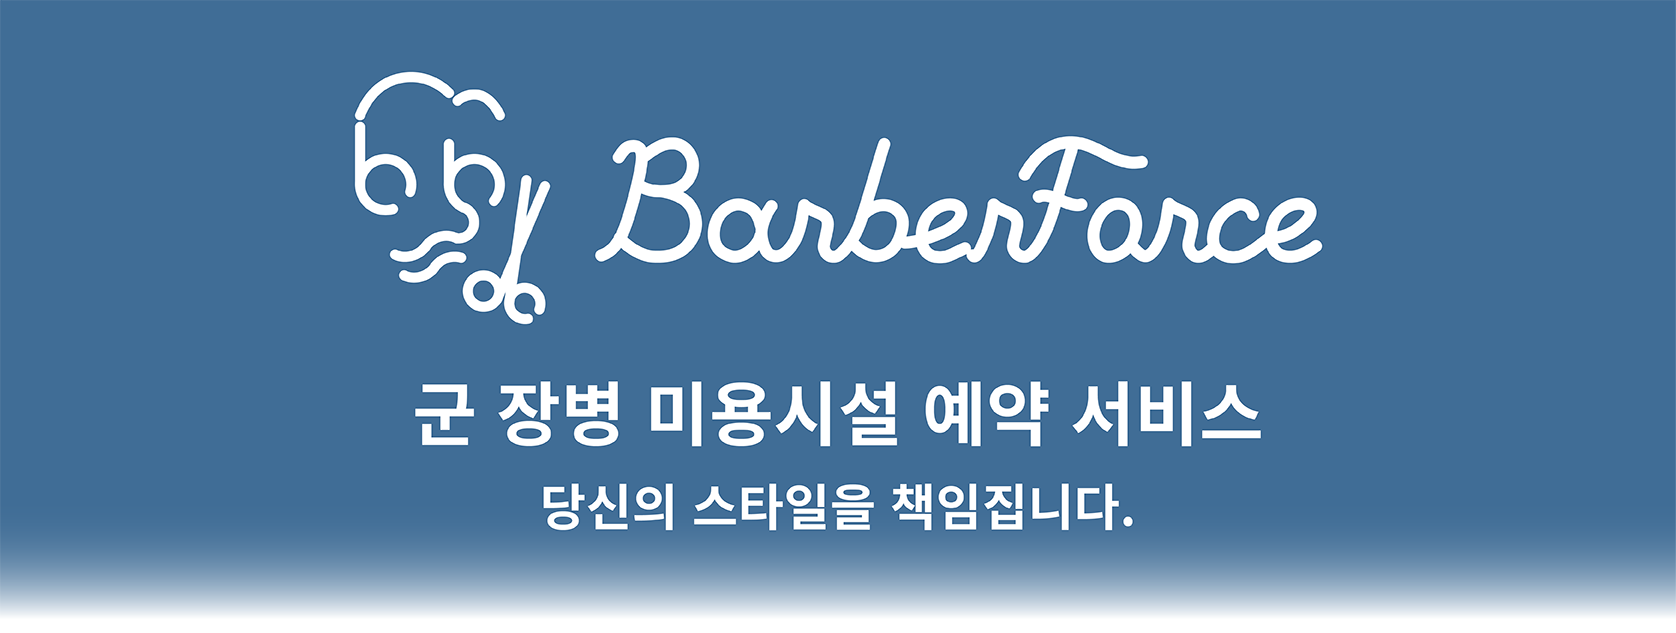
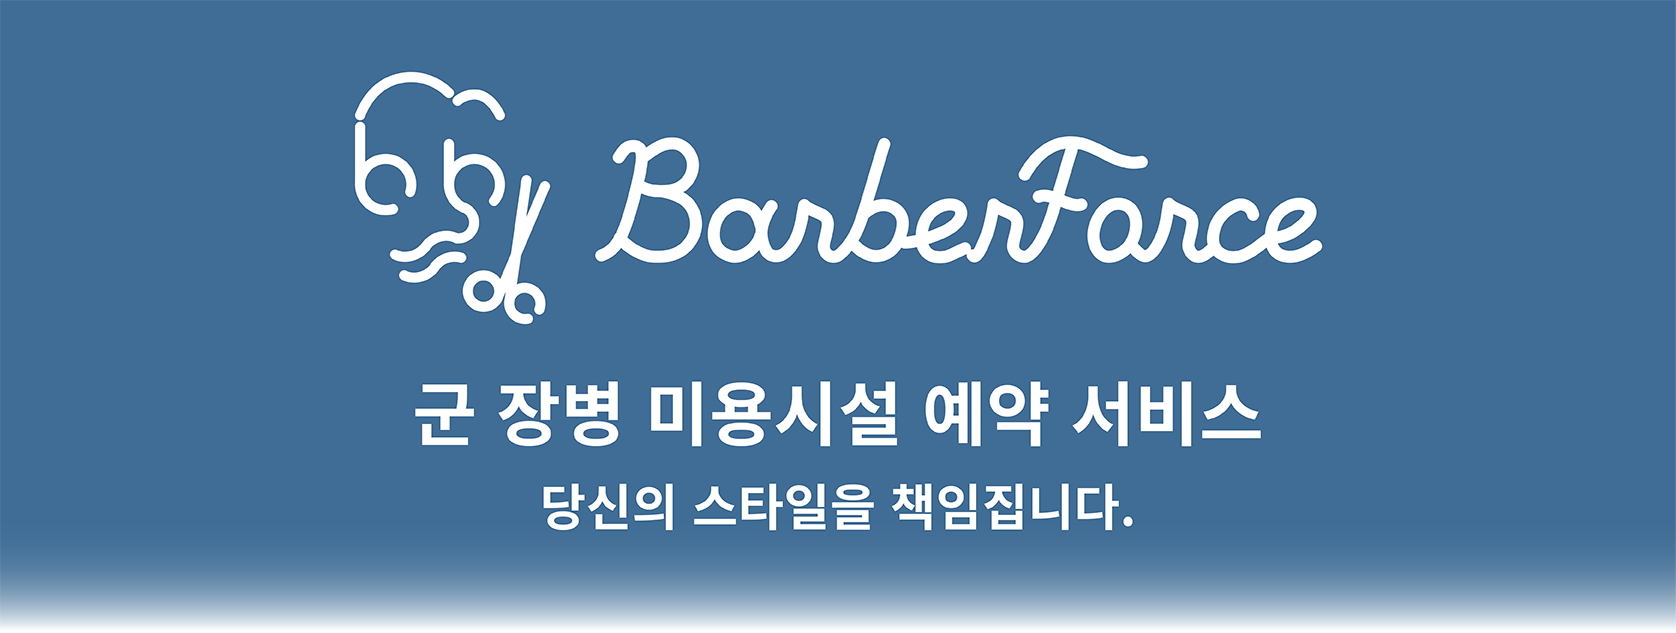
title gradation

Changed region(s): [[0.0, 0.8705, 1.0, 0.9905]]

diff --git a/README.md b/README.md
@@ -1,24 +1,8 @@
-<!--
-<div align="center">
-  <a href="https://github.com/osamhack2021/WEB_BarberForce_Duty-Free">
-      <img src="/IMAGES/1_readme_title_1676.png" alt="BarberForce title" align="center">
-  </a>
-</div>
--->
-
 <div align="center">
   <a href="https://github.com/osamhack2021/WEB_BarberForce_Duty-Free">
       <img src="/IMAGES/title_grad.png" alt="BarberForce title" align="center">
   </a>
 </div><br>
-
-<!--
-<div align="center">
-  <a href="https://github.com/osamhack2021/WEB_BarberForce_Duty-Free">
-      <img src="/IMAGES/title_white.png" alt="BarberForce title" align="center">
-  </a>
-</div>
--->
 
 <div align="center">
   <!-- no. of used languages -->
